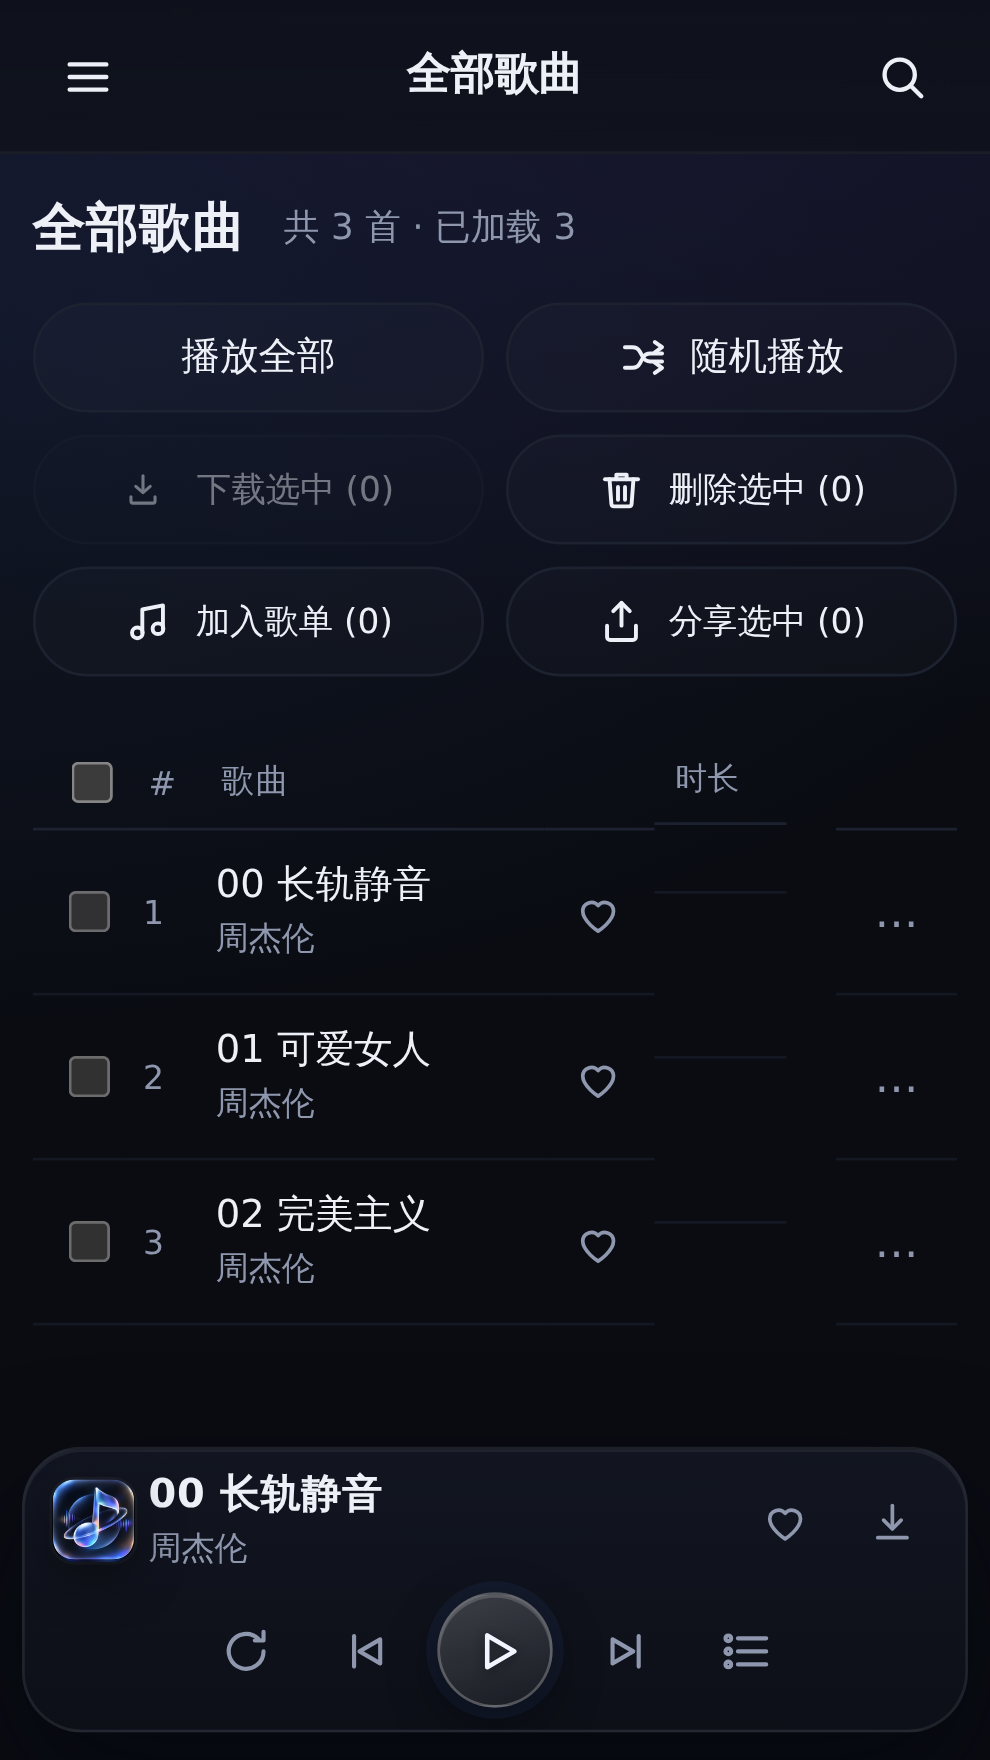
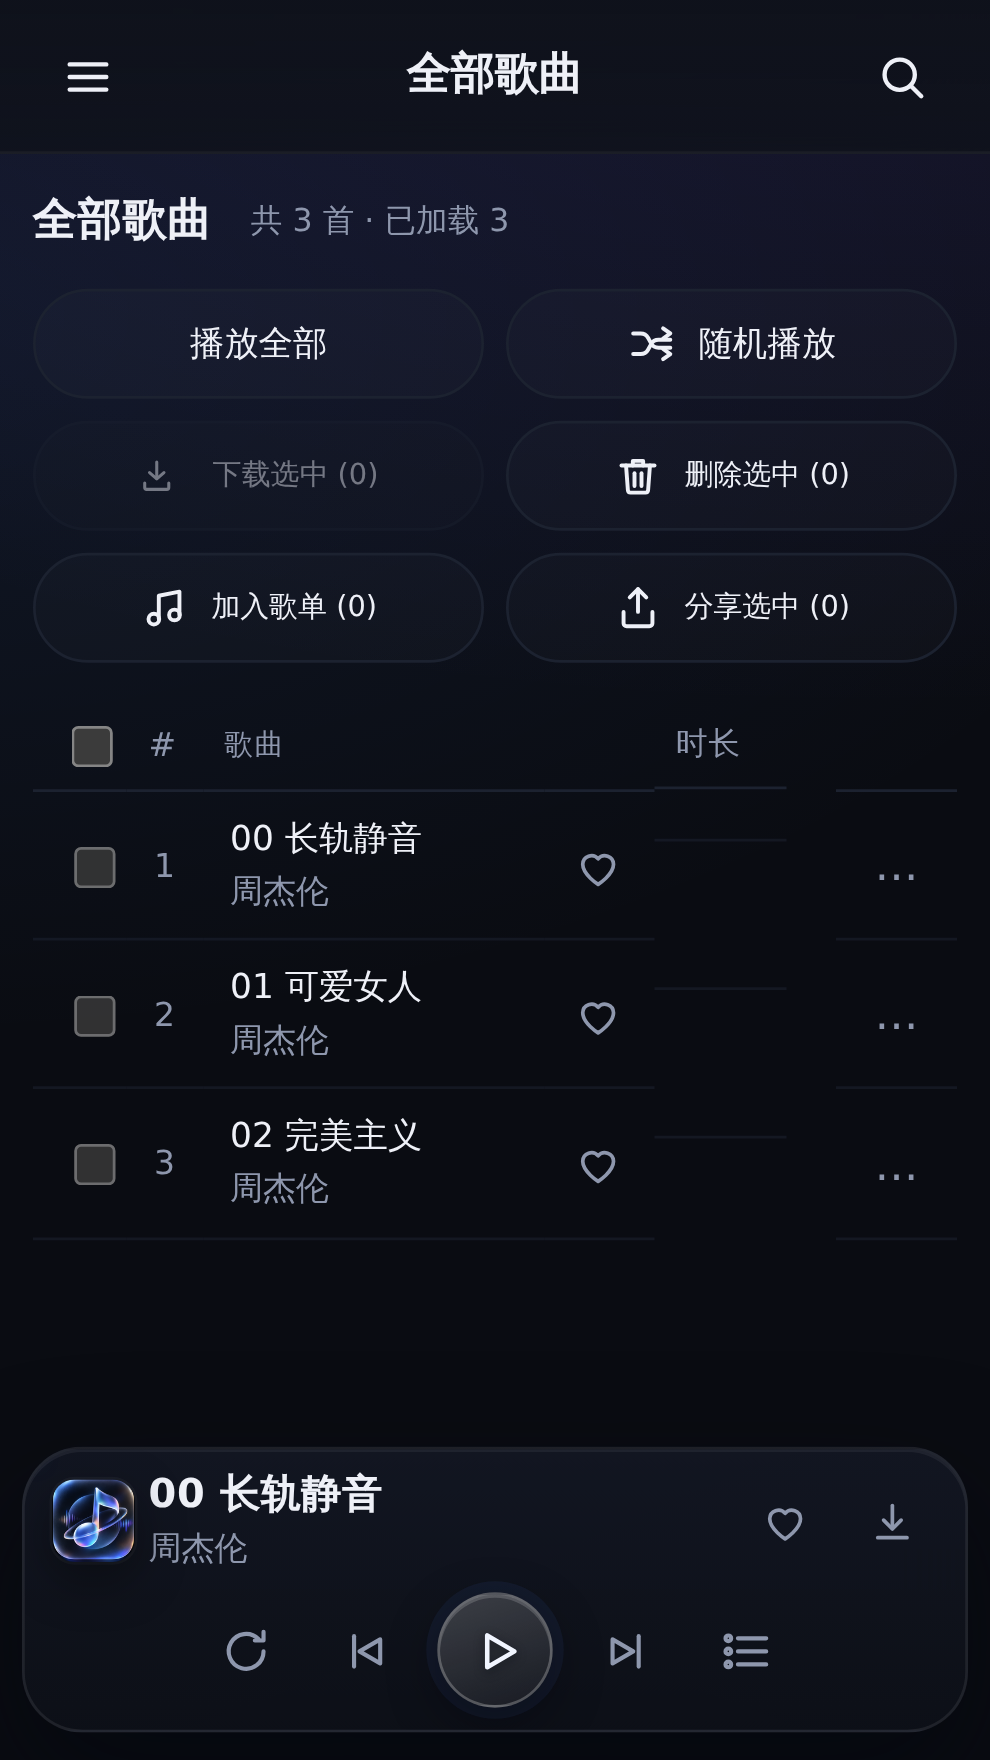
feat(ui): 手机端等比缩放 + 删掉在线音乐/FM 的顶部介绍标签
主人两件事：
1)「移动端显示的封面、UI 都太大了，根据分辨力和尺寸进行等比例缩放」
2)「在线音乐和 FM 电台，点开后不需要有顶部的介绍标签，直接显示就行」

等比缩放（新增 app.css 末尾 v4 段落，只在 ≤900px 生效，桌面/平板不受影响）：
· 尺寸令牌全部改成随视口宽线性缩放的 clamp(vw)：字号六档
  --m-fs-xs/sm/md/lg/h3/h2、卡片留白 --m-card-pad、网格间距 --m-grid-gap；
  390px 宽实测：页面标题 20→16.4、区块标题 18→15.2、卡片标题 15→12.9、
  body 16→12.9（原生默认 16px 正是「整体偏大」的主因）、chip/otab 13.5→11.9
· 网格列宽 --grid-min 改 clamp(76px,21.5vw,112px)：390px 下推荐歌单/歌单广场
  由 3 列变 4 列，卡片封面 93→65px；窄屏再同比收窄
· 封面类逐个改成 clamp：今日推荐/猜你喜欢 76→66、专辑·歌手·歌单详情页头
  190→101、歌单集合页头 88→70、全部歌曲列表行封面 42→37（紧凑 34→33）
· 歌词全屏页：唱片 min(220px,42vh) → min(clamp(160px,48vw,220px),42vh)
  （390 手机 220→187，关键字 220px/42vh 保留，e2e-0017 的规则文本断言不破）、
  歌词正文 15/18 → 13~15 / 15.5~18
· 刻意不缩放：触控下限 --tap 40px、底栏图标 34px、输入框 16px（iOS 聚焦保护）、
  底栏高度 --player-h —— 这些是可用性硬约束，缩小只会把体验做坏

顶部介绍标签：删掉 .online-banner(.ob-t/.ob-s) 与 .fm-banner(.fm-b-title/.fm-b-sub)
两处渲染及其全部 CSS；顶栏本来就写着「在线音乐」「FM 电台」，再挂标题+副标题
就是三层重复。进来直接是音源/视图工具栏（在线）与自动播放开关+频道网格（FM）。

验证（全部跑在 20059 单实例、最新构建上）：
· e2e-responsive 113/0（含 9 视口 × 7 页、触控 ≥34px、无横向溢出、pad-x 单调）
· e2e-playbtn 91/0、e2e-search-online 31/0、e2e-home-foryou 39/0、e2e-dl-ui 25/0、
  e2e-share 89/0、e2e-online-plaza 41/0
· e2e-fm 31 通过后在本轮唯一失败点「退出电台态（播放本地曲目）」超时——需要
  本地曲目，而主人的曲库是有意清空的（server/data/libraries 下只有封面图），
  与本次改动无关，属已知数据依赖失败
· 截图对照 tools/page-390x844-{home,online,fm}-{before,after}.png、
  page-390x844-lyric-after.png（唱片 187px）、page-1440x900-*-desk1x.png（桌面未变）
· EOL 审计：app.css/sw.js 仍全 CRLF、app.js 仍全 LF

diff --git a/ui/app/assets/app.css b/ui/app/assets/app.css
@@ -490,11 +490,7 @@ h2.page { font-size: 24px; font-weight: 750; letter-spacing: .3px; margin-bottom
   /* 首页快捷卡双列压缩 */
   .grid.quick-grid { grid-template-columns: repeat(2, 1fr); }
 
-  /* 在线页横幅压缩 */
-  .online-banner { padding: 16px 18px 14px; border-radius: 14px; }
-  .online-banner::after { font-size: 40px; right: 14px; }
-  .ob-t { font-size: 20px; }
-  .ob-s { font-size: 11.5px; }
+  /* 在线页横幅已删除（介绍标签不再渲染），这里只保留源/tab 的横滑处理 */
   /* 源 chips 横向滚动不换行 */
   .chips { flex-wrap: nowrap; overflow-x: auto; -webkit-overflow-scrolling: touch; padding-bottom: 4px; }
   .chip { flex-shrink: 0; }
@@ -575,14 +571,7 @@ img.ph {
 .tracks td.cov.cov-empty img, .tracks td.cov.cov-empty { background: transparent; box-shadow: none; }
 .tracks td.cov.cov-empty::before { content: ''; display: block; width: 42px; height: 42px; border-radius: 9px; background: linear-gradient(145deg, #232a3d, #151926); opacity: .55; }
 .tracks tr.playing td.cov img { box-shadow: 0 0 0 2px rgba(79,140,255,.65); }
-.online-banner { position: relative; overflow: hidden; margin: 2px 0 18px; padding: 26px 30px 24px; border-radius: 20px;
-  background: linear-gradient(120deg, rgba(79,140,255,.16), rgba(124,92,255,.10) 55%, rgba(217,178,95,.07));
-  border: 1px solid var(--line-soft); border-top-color: rgba(255,255,255,.07); }
-.online-banner::before { content: ''; position: absolute; right: -40px; top: -60px; width: 220px; height: 220px; border-radius: 50%;
-  background: radial-gradient(circle, rgba(124,92,255,.25), transparent 68%); pointer-events: none; }
-.online-banner::after { content: '♪'; position: absolute; right: 26px; top: 50%; transform: translateY(-50%); font-size: 64px; opacity: .14; pointer-events: none; }
-.ob-t { font-size: 26px; font-weight: 700; letter-spacing: 1px; text-shadow: 0 2px 18px rgba(79,140,255,.35); }
-.ob-s { color: var(--muted); font-size: 13px; margin-top: 6px; letter-spacing: .4px; }
+/* .online-banner / .ob-t / .ob-s 已删除（2026-09-15 主人：点开后不要介绍标签） */
 .otabs { display: flex; gap: 8px; margin: 0 0 16px; }
 .otab { padding: 8px 22px; border-radius: 12px; border: 1px solid var(--line-soft); color: var(--muted); font-size: 13.5px;
   background: rgba(255,255,255,.02); transition: all .15s; }
@@ -852,7 +841,6 @@ img.ph {
 .onl-tools .chips { margin: 0; }
 .onl-tools .otabs { margin: 0; }
 .onl-area { min-height: 220px; }
-.online-banner .ob-t { font-size: 22px; font-weight: 700; letter-spacing: .3px; }
 
 /* ============ 封面回填卡片 ============ */
 .set-hint { margin: -4px 0 12px; font-size: 13px; color: var(--muted, #8b93a7); line-height: 1.6; }
@@ -1229,12 +1217,7 @@ button, .icon-btn, .chip, .btn, .otab { -webkit-user-select: none; user-select: 
   .login-card { width: min(420px, 92vw); }
 }
 /* ---------- FM 电台（汽水听歌模式频道） ---------- */
-.fm-banner { position: relative; overflow: hidden; border: 1px solid var(--line-soft); border-radius: var(--radius);
-  padding: 18px 20px; margin-bottom: 16px;
-  background: linear-gradient(120deg, rgba(79,140,255,.15), rgba(124,92,255,.10) 58%, transparent),
-              linear-gradient(180deg, var(--card), #10131d); }
-.fm-b-title { font-size: 18px; font-weight: 600; letter-spacing: .5px; }
-.fm-b-sub { color: var(--muted); font-size: 12.5px; margin-top: 5px; }
+/* .fm-banner / .fm-b-title / .fm-b-sub 已删除（2026-09-15 主人：点开后不要介绍标签） */
 .fm-autorow { display: flex; align-items: center; gap: 12px; flex-wrap: wrap; margin: 0 0 16px; }
 .fm-auto-hint { color: var(--muted); font-size: 12px; flex: 1 1 260px; line-height: 1.5; }
 .fm-grid { display: grid; grid-template-columns: repeat(auto-fill, minmax(158px, 1fr)); gap: 14px; }
@@ -1263,8 +1246,6 @@ button, .icon-btn, .chip, .btn, .otab { -webkit-user-select: none; user-select: 
 @media (max-width: 560px) {
   .fm-grid { grid-template-columns: repeat(auto-fill, minmax(140px, 1fr)); gap: 10px; }
   .fm-card { padding: 11px 11px 13px; }
-  .fm-banner { padding: 15px 16px; }
-  .fm-b-sub { font-size: 12px; }
 }
 
 
@@ -1351,3 +1332,125 @@ button, .icon-btn, .chip, .btn, .otab { -webkit-user-select: none; user-select: 
 .sr-tbl td.acts .iconbtn { margin-left: 8px; }
 .sr-tbl td.acts .iconbtn.dl { margin-left: 2px; }
 .sr-meta { font-size: 12px; color: var(--muted); margin: 2px 0 12px; }
+
+/* ============================================================================
+   v4 · 手机端等比缩放                                            2026-09-15
+   主人：「移动端显示的封面、ui 都太大了，根据分辨力和尺寸进行等比例缩放」。
+   做法：把「显大」的那些尺寸（字号、卡片留白、封面、间距）全部换成随视口宽
+   线性缩放的令牌 —— 窄屏同比缩小、430px 以上回到常规、平板/桌面完全不受影响。
+   刻意不参与缩放的只有三样，它们是可点性/可用性的硬约束，缩小只会把体验做坏：
+     · 触控下限 --tap 40px 与底栏图标 34px（e2e-responsive 的 ≥34px 断言）
+     · 输入框 16px（iOS 聚焦缩放保护，见上面的 input 规则）
+     · 底栏高度 --player-h（两行布局的物理下限）
+   顺序很重要：本段故意放在文件末尾，用「同优先级后到者胜」压掉前面 560/480/420/380
+   那几个断点里写死的固定 px（例如 .hero .cover 的 min(58vw,190px)）。
+   ============================================================================ */
+@media (max-width: 900px) {
+  :root {
+    /* 字号阶梯：390px 宽 ≈ 常规字号，320px 再小一档，430px 起封顶 */
+    --m-fs-xs: clamp(10.5px, 2.85vw, 12px);    /* 最小说明 / 表头 / 角标 */
+    --m-fs-sm: clamp(11.5px, 3.05vw, 12.8px);  /* 副标题 / meta / chip / tab */
+    --m-fs-md: clamp(12.5px, 3.32vw, 13.8px);  /* 列表正文 / 按钮 */
+    --m-fs-lg: clamp(13.5px, 3.6vw, 15px);     /* 卡片标题 */
+    --m-fs-h3: clamp(14.5px, 3.9vw, 17px);     /* 区块标题 */
+    --m-fs-h2: clamp(16px, 4.2vw, 19.5px);     /* 页面标题 */
+    --m-card-pad: clamp(8px, 2.3vw, 11px);     /* 卡片内留白 */
+    --m-grid-gap: clamp(7px, 2.3vw, 12px);     /* 网格间距 */
+    /* 卡片列宽：390px 下由 3 列变 4 列（封面 113 → 85px），窄屏再按比例收窄 */
+    --grid-min: clamp(76px, 21.5vw, 112px);
+    --grid-gap: var(--m-grid-gap);
+  }
+  /* 继承型文本一起收一档：浏览器默认 16px 在手机上正是「整体偏大」的主因 */
+  body { font-size: var(--m-fs-md); }
+
+  /* —— 标题层 —— */
+  h2.page { font-size: var(--m-fs-h2); margin-bottom: clamp(12px, 3.4vw, 18px); }
+  .page-head { margin-bottom: clamp(14px, 4vw, 20px); }
+  .page-head .meta, .crumb, .hint, .sub-h { font-size: var(--m-fs-sm); }
+  .row-head { margin: clamp(18px, 5vw, 28px) 0 clamp(9px, 2.6vw, 14px); }
+  .row-head h3, .set-sec-h, .dl-qtitle, .dialog-box h3 { font-size: var(--m-fs-h3); }
+  .row-head a { font-size: var(--m-fs-sm); }
+  .set-section { margin-bottom: clamp(20px, 6vw, 30px); }
+
+  /* —— 卡片 / 网格：封面与文字一起按视口等比 —— */
+  .rec-grid { grid-template-columns: repeat(auto-fill, minmax(clamp(76px, 21.5vw, 112px), 1fr));
+    gap: clamp(9px, 2.8vw, 15px) var(--m-grid-gap); margin-bottom: clamp(14px, 4vw, 20px); }
+  .board-grid { grid-template-columns: repeat(auto-fill, minmax(clamp(88px, 24vw, 148px), 1fr)); }
+  .card { padding: var(--m-card-pad); }
+  .card .t { font-size: var(--m-fs-md); margin-top: clamp(6px, 1.9vw, 10px); }
+  .card .s, .rec-grid .card .s { font-size: var(--m-fs-xs); }
+  .rec-grid .card .t { font-size: var(--m-fs-sm); }
+  .card .cover svg { width: clamp(30px, 9vw, 46px); height: clamp(30px, 9vw, 46px); }
+
+  /* —— 列表（全部歌曲 / 下载中心 / 回收站） —— */
+  .tracks th { font-size: var(--m-fs-xs); }
+  .tracks td { font-size: var(--m-fs-md); padding: clamp(8px, 2.4vw, 11px) 10px; }
+  .tracks td.cov img, .tracks td.cov.cov-empty::before {
+    width: clamp(32px, 9.4vw, 40px); height: clamp(32px, 9.4vw, 40px); }
+  .tracks th.cov, .tracks td.cov { width: auto; }
+  .tracks.compact td { font-size: var(--m-fs-sm); }
+  .tracks.compact td.cov img, .tracks.compact td.cov.cov-empty::before {
+    width: clamp(28px, 8.4vw, 34px); height: clamp(28px, 8.4vw, 34px); }
+  .tracks.compact .sub { font-size: var(--m-fs-xs); }
+  .dl-nm { font-size: var(--m-fs-md); }
+  .dl-res-info, .dl-sg { font-size: var(--m-fs-sm); }
+  .dl-src-tag, .dl-src-sel { font-size: var(--m-fs-xs); }
+  .trash-tbl { font-size: var(--m-fs-md); }
+  .trash-count, .trash-selall { font-size: var(--m-fs-sm); }
+
+  /* —— 按钮 / 药丸 / 页签：字号与内边距等比，高度保留触控下限 —— */
+  .btn { font-size: var(--m-fs-md); padding: clamp(8px, 2.3vw, 10px) clamp(14px, 4.2vw, 22px); }
+  .btn.mini { font-size: var(--m-fs-xs); padding: 5px clamp(10px, 3vw, 14px); }
+  .chip { font-size: var(--m-fs-sm); padding: 5px clamp(11px, 3.4vw, 16px); }
+  .chip.hchip { font-size: var(--m-fs-xs); padding: 4px clamp(9px, 2.8vw, 13px); }
+  .otab, .tabs button { font-size: var(--m-fs-sm); padding: 7px clamp(13px, 4vw, 22px); }
+  .otabs.big .otab { font-size: var(--m-fs-md); padding: 8px clamp(14px, 4.2vw, 20px); }
+  .trash-bar .btn, .trash-tbl .t-acts .btn, .dl-res-tbl .acts .btn { font-size: var(--m-fs-xs); }
+  .set-k, .set-v { font-size: var(--m-fs-md); }
+  .set-vol-val { font-size: var(--m-fs-sm); }
+
+  /* —— 首页「为你推荐」卡 & 专辑/歌手/歌单详情页封面 —— */
+  .fy-cov { width: clamp(62px, 17vw, 84px); height: clamp(62px, 17vw, 84px);
+    flex: 0 0 clamp(62px, 17vw, 84px); }
+  .fy-card { gap: clamp(10px, 3vw, 14px);
+    padding: clamp(10px, 2.8vw, 12px) clamp(11px, 3.2vw, 14px); }
+  .fy-name { font-size: var(--m-fs-lg); }
+  .fy-reason { font-size: var(--m-fs-sm); margin-top: clamp(4px, 1.4vw, 6px); }
+  .fy-meta { font-size: var(--m-fs-xs); margin-top: 4px; }
+  .hero, .fy-hero { gap: clamp(12px, 3.6vw, 20px); margin-bottom: clamp(14px, 4vw, 20px); }
+  .hero h2, .fy-hero h2 { font-size: var(--m-fs-h2); }
+  .hero .cover, .fy-hero .fy-cov.big { width: clamp(92px, 26vw, 128px); height: clamp(92px, 26vw, 128px);
+    flex: 0 0 clamp(92px, 26vw, 128px); border-radius: clamp(12px, 3.4vw, 16px); }
+  .hero .meta, .fy-hero .meta { font-size: var(--m-fs-sm); margin-bottom: clamp(10px, 3vw, 16px); }
+
+  /* —— 在线音乐 歌单 / 歌手卡 —— */
+  .coll-hero { gap: clamp(10px, 3vw, 16px); padding: clamp(11px, 3.2vw, 16px); }
+  .coll-hero .cover { width: clamp(64px, 18vw, 88px); height: clamp(64px, 18vw, 88px); }
+  .coll-name { font-size: var(--m-fs-lg); }
+  .coll-sub { font-size: var(--m-fs-sm); }
+  .coll-type, .coll-card .coll-lock { font-size: var(--m-fs-xs); }
+
+  /* —— FM 频道卡 —— */
+  .fm-grid { grid-template-columns: repeat(auto-fill, minmax(clamp(118px, 32vw, 158px), 1fr));
+    gap: var(--m-grid-gap); }
+  .fm-card { padding: clamp(10px, 2.8vw, 13px) clamp(10px, 2.8vw, 13px) clamp(11px, 3.2vw, 15px);
+    gap: clamp(4px, 1.4vw, 6px); }
+  .fm-nm { font-size: var(--m-fs-lg); }
+  .fm-ds { font-size: var(--m-fs-sm); }
+  .fm-tag, .fm-playing { font-size: var(--m-fs-xs); }
+  .fm-auto-hint { font-size: var(--m-fs-sm); }
+
+  /* —— 分享 / 弹窗 —— */
+  .share-item-t, .share-k { font-size: var(--m-fs-md); }
+  .share-item-s, .share-item-url, .share-note, .share-tip { font-size: var(--m-fs-sm); }
+
+  /* —— 歌词全屏页：唱片（封面）与歌词字号同样按视口等比 ——
+     宽度写成 min(clamp(160px, 48vw, 220px), 42vh)：390px 手机上 220 → 187px，
+     矮屏仍由 42vh 兜底（e2e-0017 对这条规则有 220px/42vh 的文本断言，关键字保留）。 */
+  .lf-disc { width: min(clamp(160px, 48vw, 220px), 42vh); height: min(clamp(160px, 48vw, 220px), 42vh); }
+  .lf-body p { font-size: clamp(13px, 3.7vw, 15px); line-height: 2.3; }
+  .lf-body p.tr { font-size: var(--m-fs-sm); }
+  .lf-body p.on { font-size: clamp(15.5px, 4.4vw, 18px); }
+  .lf-head button { font-size: var(--m-fs-sm); padding: 6px 10px; }
+  .lf-head span { font-size: var(--m-fs-xs); }
+}

diff --git a/ui/app/assets/app.js b/ui/app/assets/app.js
@@ -2519,11 +2519,8 @@ kuwo.cn/playlist_detail/280301309</pre>
   routes.online = async () => {
     setActiveNav('online')
     const v = $('#view')
-    // 顶部信息卡：同时充当页面标题，避免「标题 + 副标题 + tab 栏」三层重复
-    const banner = el('div', 'online-banner')
-    banner.appendChild(el('div', 'ob-t', '在线音乐'))
-    banner.appendChild(el('div', 'ob-s', '平台歌单 · 搜单曲 / 专辑 / 歌单 / 歌手 · 一键入库到本机曲库'))
-    v.appendChild(banner)
+    // 顶部介绍横幅已删除（2026-09-15 主人：点开后不要介绍标签，直接显示内容）
+    // 顶栏已经写着「在线音乐」，再挂一张标题+副标题的卡就是三层重复
 
     // 一行工具栏：左音源切换，右视图切换
     const tools = el('div', 'onl-tools')
@@ -3341,10 +3338,7 @@ kuwo.cn/playlist_detail/280301309</pre>
   routes.fm = async () => {
     setActiveNav('fm')
     const v = $('#view')
-    const banner = el('div', 'fm-banner')
-    banner.appendChild(el('div', 'fm-b-title', 'FM 电台'))
-    banner.appendChild(el('div', 'fm-b-sub', '汽水「听歌模式」频道 · 打开即播 · 队列见底自动续播'))
-    v.appendChild(banner)
+    // 顶部介绍横幅已删除（同上）：进来直接是「自动播放开关 + 频道网格」
 
     const row = el('div', 'fm-autorow')
     const lbl = el('label', 'set-toggle')

diff --git a/ui/app/sw.js b/ui/app/sw.js
@@ -3,7 +3,7 @@
    策略：静态外壳 network-first —— 局域网内足够快，且保证服务端升级后立即生效
         （旧版 cache-first 会让 /assets/app.js 永远停在首次缓存，升级看不见）
         离线/网络异常时回退缓存 */
-const CACHE = 'gusi-v12'
+const CACHE = 'gusi-v13'
 const SHELL = ['./', './index.html', './manifest.json', './assets/app.css', './assets/app.js', './assets/icon.png']
 
 self.addEventListener('install', (e) => {

diff --git a/tools/measure-mobile-ui.py b/tools/measure-mobile-ui.py
@@ -1,0 +1,75 @@
+#!/usr/bin/env python3
+# -*- coding: utf-8 -*-
+"""量手机端关键视觉尺寸（封面 / 字号），用于「等比缩放」前后对比。
+
+用法：python3 tools/measure-mobile-ui.py [w] [h]
+"""
+import sys
+from playwright.sync_api import sync_playwright
+
+BASE = 'http://localhost:20059'
+USER, PASSWORD = 'Slceleto', 'REDACTED'
+W = int(sys.argv[1]) if len(sys.argv) > 1 else 390
+H = int(sys.argv[2]) if len(sys.argv) > 2 else 844
+
+JS = """() => {
+  const r = (sel) => { const e = document.querySelector(sel); if (!e) return null
+    const b = e.getBoundingClientRect(); return Math.round(b.width * 10) / 10 }
+  const fs = (sel) => { const e = document.querySelector(sel); if (!e) return null
+    return Math.round(parseFloat(getComputedStyle(e).fontSize) * 10) / 10 }
+  const gcols = (sel) => { const e = document.querySelector(sel); if (!e) return null
+    return getComputedStyle(e).gridTemplateColumns.split(' ').length }
+  return {
+    vw: document.documentElement.clientWidth,
+    gridCols: gcols('.grid'), gridMin: getComputedStyle(document.documentElement).getPropertyValue('--grid-min').trim(),
+    cardCover: r('.grid .card .cover'), cardT: fs('.grid .card .t'), recCover: r('.rec-grid .card .cover'),
+    recCols: gcols('.rec-grid'),
+    fyCov: r('.fy-cov'), fyName: fs('.fy-name'), fyReason: fs('.fy-reason'),
+    h2: fs('h2.page'), h3: fs('.row-head h3'), body: fs('body'),
+    chipFs: fs('.chip'), chipH: r('.chip'), otabFs: fs('.otab'), otabH: r('.otab'),
+    tdFs: fs('.tracks td'), btnFs: fs('.btn'), collHeroCover: r('.coll-hero .cover'), heroCover: r('.hero .cover'),
+    fmCard: r('.fm-card'), fmNm: fs('.fm-nm'), fmDs: fs('.fm-ds'),
+  }
+}"""
+
+
+def main():
+    with sync_playwright() as p:
+        b = p.chromium.launch(executable_path='/usr/bin/chromium', args=['--no-sandbox'])
+        page = b.new_page(viewport={'width': W, 'height': H}, device_scale_factor=2)
+        page.goto(BASE + '/', wait_until='domcontentloaded')
+        page.wait_for_selector('#login', state='visible', timeout=20000)
+        page.fill('#login-name', USER)
+        page.fill('#login-pass', PASSWORD)
+        page.click('#login-btn')
+        page.wait_for_selector('#shell:not([hidden])', timeout=20000)
+        page.wait_for_timeout(600)
+        print('== %dx%d：首页 ==' % (W, H))
+        page.evaluate("() => { location.hash = '#/home' }")
+        page.wait_for_timeout(2600)
+        m = page.evaluate(JS)
+        print('  推荐歌单 列数=%s 封面=%s 卡标题字号=%s | 为你推荐 封面=%s 标题=%s 说明=%s' %
+              (m['recCols'], m['recCover'], m['cardT'], m['fyCov'], m['fyName'], m['fyReason']))
+        print('  页面标题=%s 区块标题=%s body=%s' % (m['h2'], m['h3'], m['body']))
+        print('== %dx%d：在线音乐 ==' % (W, H))
+        page.evaluate("() => { location.hash = '#/online' }")
+        page.wait_for_timeout(3500)
+        m = page.evaluate(JS)
+        print('  歌单卡 列数=%s 封面=%s 卡标题字号=%s | chip=%s/%s otab=%s/%s | 集合页头封面=%s' %
+              (m['gridCols'], m['cardCover'], m['cardT'], m['chipFs'], m['chipH'], m['otabFs'], m['otabH'],
+               m['collHeroCover']))
+        print('== %dx%d：FM ==' % (W, H))
+        page.evaluate("() => { location.hash = '#/fm' }")
+        page.wait_for_timeout(3500)
+        m = page.evaluate(JS)
+        print('  频道卡=%s 标题字号=%s 说明字号=%s' % (m['fmCard'], m['fmNm'], m['fmDs']))
+        print('== %dx%d：全部歌曲 ==' % (W, H))
+        page.evaluate("() => { location.hash = '#/tracks' }")
+        page.wait_for_timeout(1600)
+        m = page.evaluate(JS)
+        print('  列表字号=%s 按钮字号=%s' % (m['tdFs'], m['btnFs']))
+        b.close()
+
+
+if __name__ == '__main__':
+    main()

diff --git a/tools/shot-pages-mobile.py b/tools/shot-pages-mobile.py
@@ -1,0 +1,41 @@
+#!/usr/bin/env python3
+# -*- coding: utf-8 -*-
+"""移动端逐页截图（默认 390x844），用来审「封面/UI 是否过大」。
+
+用法：python3 tools/shot-pages-mobile.py [tag] [w] [h]
+"""
+import sys
+from playwright.sync_api import sync_playwright
+
+BASE = 'http://localhost:20059'
+USER, PASSWORD = 'Slceleto', 'REDACTED'
+TAG = sys.argv[1] if len(sys.argv) > 1 else 'm'
+W = int(sys.argv[2]) if len(sys.argv) > 2 else 390
+H = int(sys.argv[3]) if len(sys.argv) > 3 else 844
+PAGES = [('home', '#/home', 2200), ('online', '#/online', 3500), ('fm', '#/fm', 3500),
+         ('albums', '#/albums', 1500), ('tracks', '#/tracks', 1500),
+         ('downloads', '#/downloads', 1500), ('settings', '#/settings', 1200)]
+
+
+def main():
+    with sync_playwright() as p:
+        b = p.chromium.launch(executable_path='/usr/bin/chromium', args=['--no-sandbox'])
+        page = b.new_page(viewport={'width': W, 'height': H}, device_scale_factor=2)
+        page.on('pageerror', lambda e: print('[pageerror]', e))
+        page.goto(BASE + '/', wait_until='domcontentloaded')
+        page.wait_for_selector('#login', state='visible', timeout=20000)
+        page.fill('#login-name', USER)
+        page.fill('#login-pass', PASSWORD)
+        page.click('#login-btn')
+        page.wait_for_selector('#shell:not([hidden])', timeout=20000)
+        page.wait_for_timeout(900)
+        for name, hash_, wait in PAGES:
+            page.evaluate("(h) => { location.hash = h }", hash_)
+            page.wait_for_timeout(wait)
+            page.screenshot(path='tools/page-%dx%d-%s-%s.png' % (W, H, name, TAG))
+            print('shot tools/page-%dx%d-%s-%s.png' % (W, H, name, TAG))
+        b.close()
+
+
+if __name__ == '__main__':
+    main()
